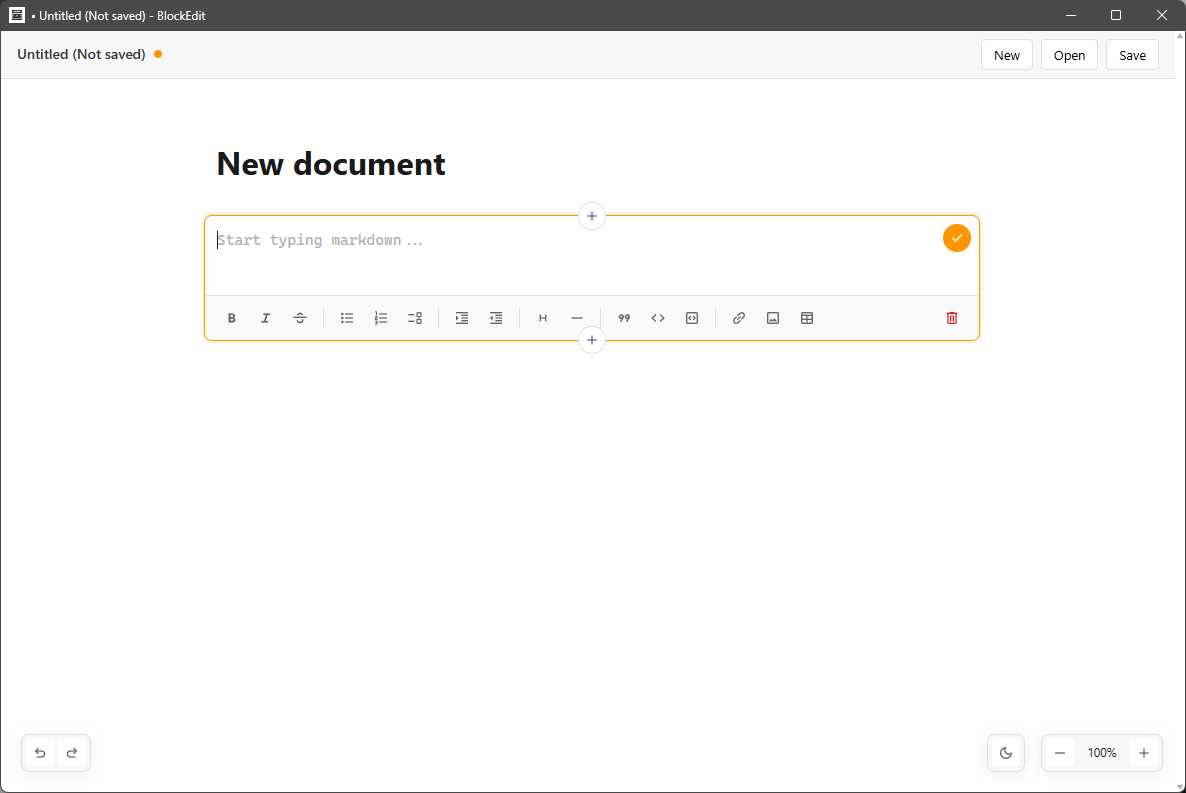
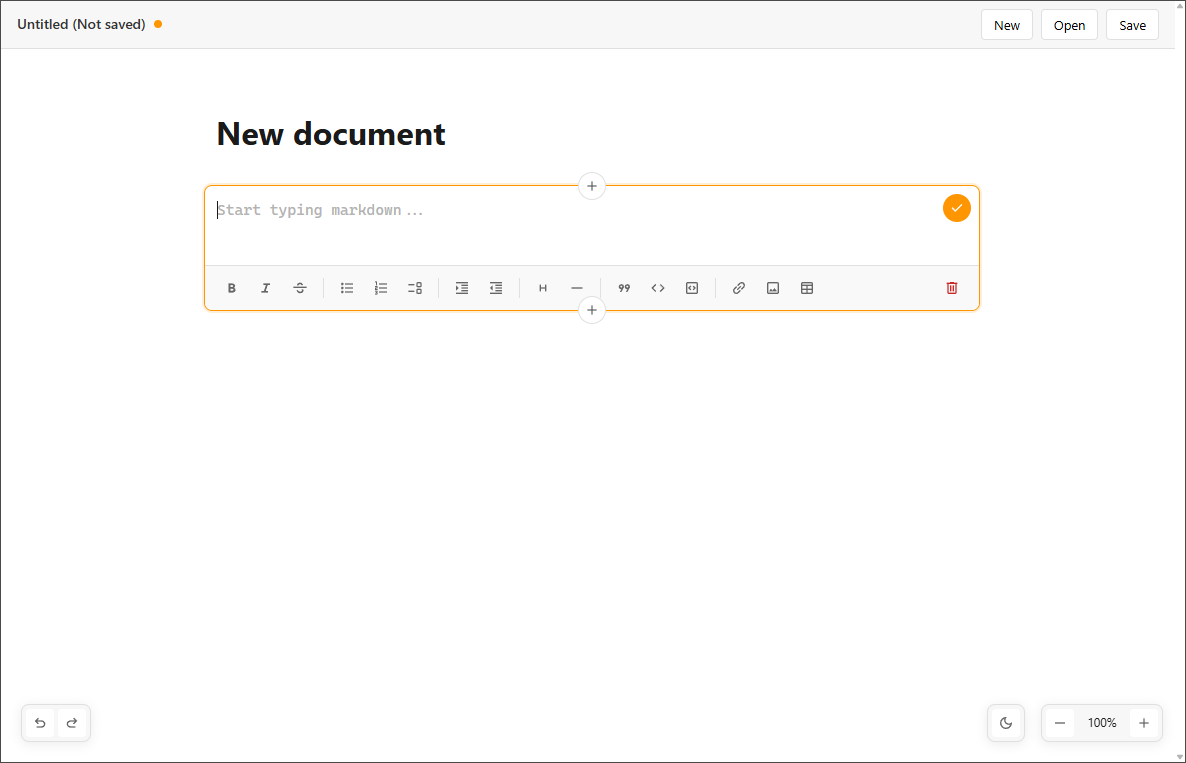
README

diff --git a/README.md b/README.md
@@ -1,5 +1,19 @@
 # BlockEdit
 
-> A markdown editor with draggable blocks and a beautiful UI.
+_A markdown editor with draggable blocks and a beautiful UI._
+
+<a href="https://github.com/Julynx/blockedit/releases/latest/download/BlockEdit_Setup.exe" target="_blank">
+<img src="https://i.imgur.com/cSWO5Ta.png" height="64">
+</a><br><br>
 
 ![alt text](assets/screenshot.png)
+
+## Features
+
+- Elegant user interface and accessible user experience. No configuration by design.
+- Quickly insert lists, headers, quotes, code blocks, images, tables, and more.
+- Blocks are formatted and rendered as soon as you click out of them.
+- Drag and drop blocks to reorder them; all changes autosave to disk.
+- Undo buffer and autosave, so you never lose your work.
+- Keyboard shortcuts for most common actions, such as Undo / Redo, Save, Insert block, Zoom in / Zoom out, etc.
+- Configurable zoom levels and built-in dark mode.